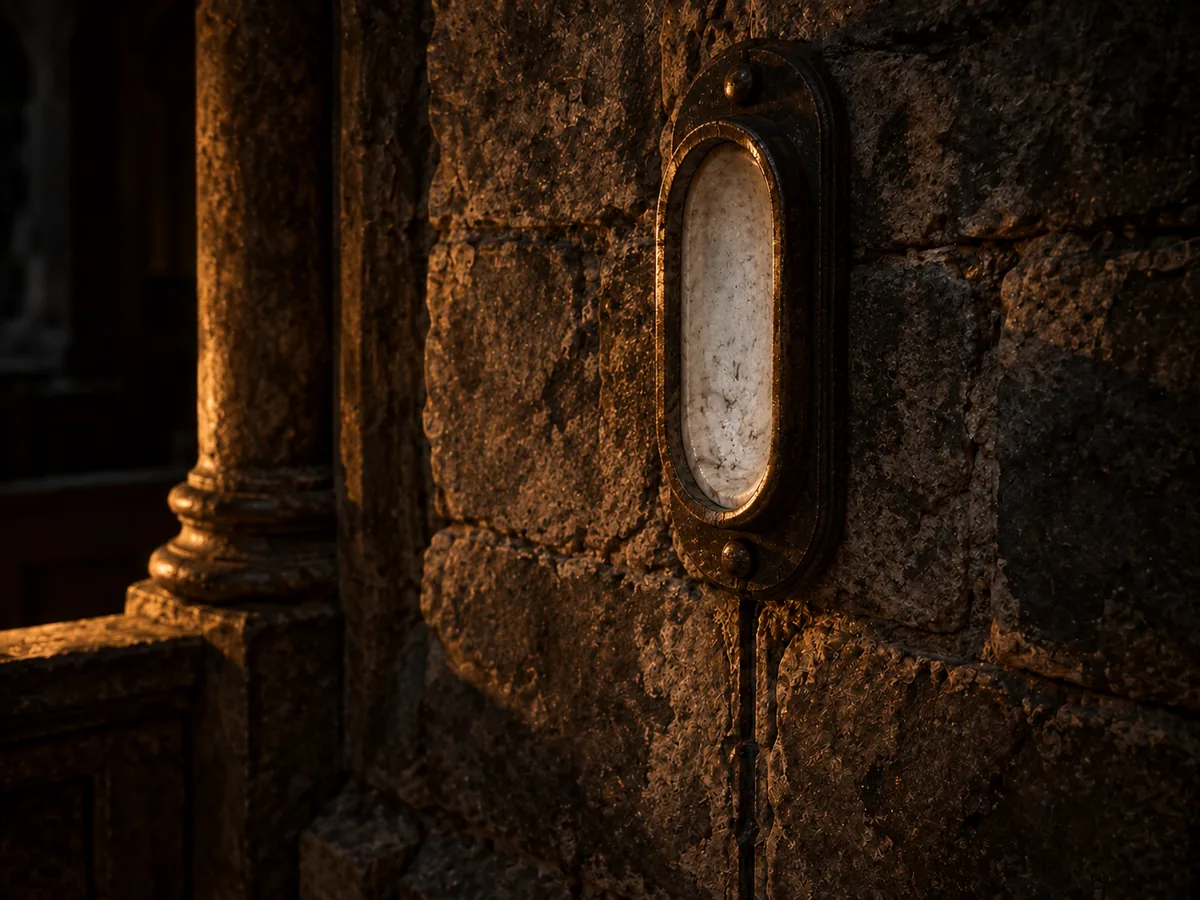
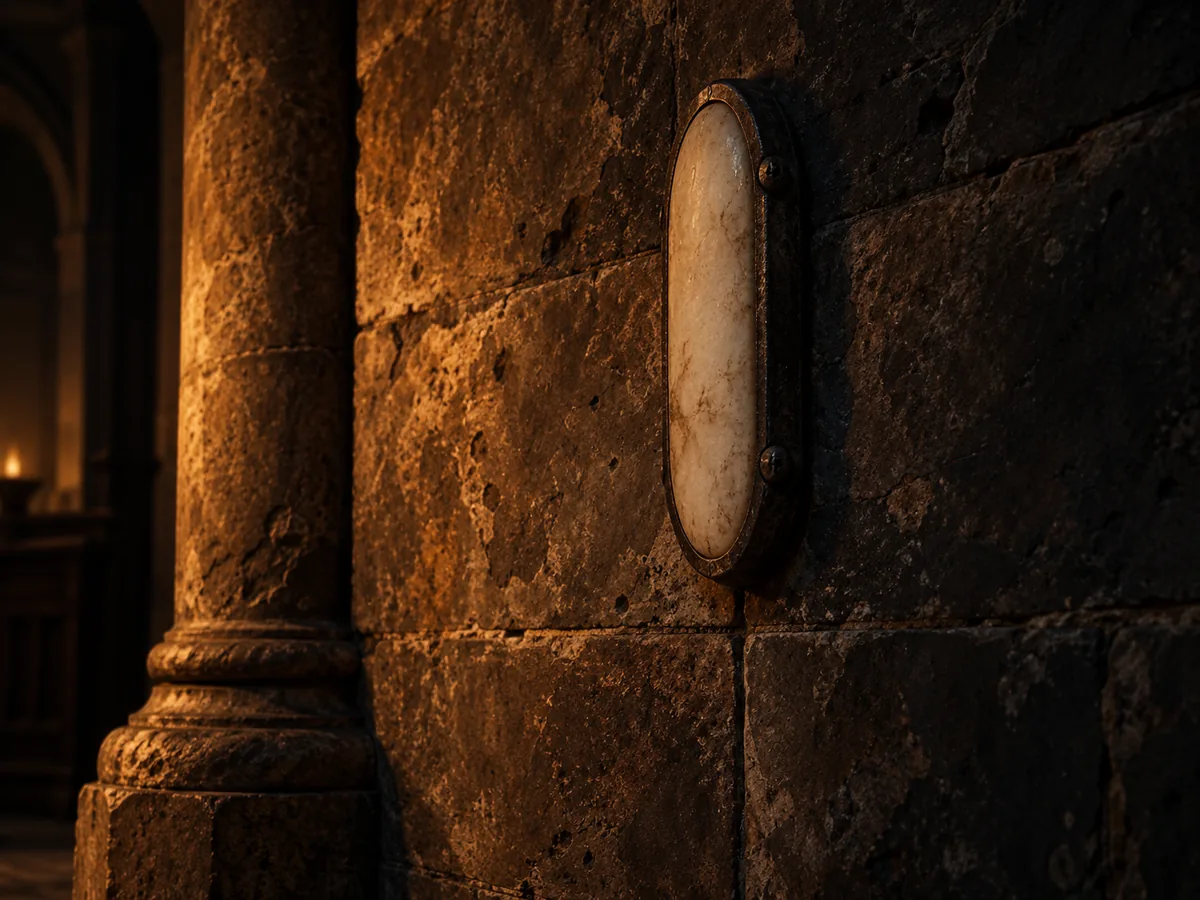
art: vary weathering and preserve amber palette

diff --git a/docs/ART.md b/docs/ART.md
@@ -6,14 +6,14 @@ Generated on October 2, 2026 with the built-in image_gen tool, following the use
 
 | Asset in public/art | Chronicle record | Accomplishment | Bytes |
 |---|---|---|---|
-| keeper-office.webp | appointment | Fresh save | 126104 |
-| oil-press.webp | oil-press-built | First construction | 153708 |
-| lamp-examination.webp | lamp-examination | Completed examination | 131182 |
-| cistern-find.webp | cistern-find | First expedition return | 202840 |
+| keeper-office.webp | appointment | Fresh save | 122960 |
+| oil-press.webp | oil-press-built | First construction | 180544 |
+| lamp-examination.webp | lamp-examination | Completed examination | 121138 |
+| cistern-find.webp | cistern-find | First expedition return | 199386 |
 
-All four files are 1200×900 WebP images, downscaled without cropping and encoded at quality 82 with Sharp (already present through Next.js). Combined size is 613834 bytes. Original PNGs remain in the image tool's generated-images directory; only final optimized assets are served. The existing service-worker builder precaches them.
+All four files are 1200×900 WebP images, downscaled without cropping and encoded at quality 82 with Sharp (already present through Next.js). Combined size is 624028 bytes. Original PNGs remain in the image tool's generated-images directory; only final optimized assets are served. The existing service-worker builder precaches them.
 
-The office image was inspected first and used as a style reference for each subsequent scene. The lamp's first bowl-shaped housing was rejected because it could imply an oil reservoir. The final edit replaces it with a shallow upright fixture and preserves the chapel, seam and lighting. The discarded lamp is not shipped.
+The initial office image was inspected first and used as a style reference for each subsequent scene. This batch has since been replaced to correct repetitive material texture, as described below. The lamp's first bowl-shaped housing was rejected because it could imply an oil reservoir. The accepted initial edit replaced it with a shallow upright fixture and preserved the chapel, seam and lighting. The current replacement retains that upright form and narrative limits. The discarded lamp is not shipped.
 
 ## Narrative review
 
@@ -23,7 +23,23 @@ The opening leaves the Keeper's appearance undefined. The Oil Press depicts ordi
 
 Use a stable ID in src/content/illustrations.ts with a Chronicle binding, local asset, accurate dimensions and alt text. A record's first accomplishment makes its art eligible. Building artwork also needs a one-time construction record and matching save validation/migration. Reuse the Chronicle caption rather than maintaining another copy. Keep each served asset below 300000 bytes; the asset test enforces existence, format, distinct bindings and size. Review all imagery and captions against AGENTS.md and docs/NARRATIVE_BIBLE.md before shipping.
 
-## Exact generation prompts
+## Surface rendering: irregular wear, original colors
+
+The original PNGs already contain unusually regular pitting and pores. WebP encoding and the interface did not create this pattern. Repeated emphasis on tactile, weathered surfaces and painterly texture appears to have encouraged it, and the office reference carried it into the later scenes.
+
+On October 2, 2026, the user clarified that the original coloring should remain: the desired correction is less regular texture, not a smoother art style. Preserve the original amber light, dirty browns, charcoal shadows, exposure, contrast, saturation and white balance. Keep materials rugged, old and tactile. Stone wear should vary in size, depth, density and spacing: irregular clusters, less pitted stretches, localized erosion and occasional shallow scars. Timber grain should follow the wood, with wear concentrated around use and edges. Different materials and individual stone blocks should not share an identical stamped texture.
+
+Avoid uniform stippling, repeated dimples or wormlike curls, procedural bump patterns, all-over granular relief, canvas texture, impasto and oversharpening. Do not replace these with global blur, polished stone, plastic surfaces or a new color grade. Keep meaningful edges, joints, tools and silhouettes clear.
+
+A trial that broadly smoothed the office and lamp was superseded by this clarification; those trial images are not the approved style reference. Inspect candidates at full resolution and approximately 350 pixels wide in the actual game. Check both natural variation in texture and fidelity to the original colors before accepting them. Correct the source artwork rather than adding compression or CSS filters.
+
+Reusable prompt clause:
+
+> Preserve the original color grade, exposure, contrast, saturation, white balance and localized lighting. Rugged historical materials with nonuniform natural wear: pits and pores vary in size, depth and spacing, clustered erosion alternates with less pitted areas. Keep material-specific grain and clear object edges. No repeated stippling, embossed curls, uniform procedural bump pattern, canvas texture or oversharpening. No global smoothing, blur, polished or plastic surfaces, recoloring or relighting.
+
+## Original generation prompts
+
+These document the first batch. For new work, add the texture-variation clause above and use the accepted current assets as references. Do not propagate the original repetitive surface pattern.
 
 For the Oil Press and cistern, the reference was the accepted office PNG. The initial lamp also used that office reference. The lamp correction used the discarded lamp as image 1 (edit target) and the office as image 2 (style reference).
 
@@ -47,3 +63,22 @@ Use case: precise-object-edit. Image 1 is the lamp illustration EDIT TARGET. Ima
 
 Use case: illustration-story. Create a NEW standalone landscape 4:3 illustration for Buried Sun: first Old Cistern expedition discovery. The supplied office image is a STYLE AND MATERIAL reference only, not an edit target. Match its grounded historical realism, subtle painterly texture, heavy chiaroscuro and desaturated charcoal/dirty brown/bone palette. A human-eye-level intimate view beside a newly exposed worn stone stair within a cramped old cistern, with silt on its lower steps. In the foreground, a few small PALE IRREGULAR fragments of older material are laid on plain worn cloth by returning scavengers; show a simple hand or tool for scale, no heroic portrait. The fragments are unidentified material, not skulls, bones, fossils, crystals, jewels, circuit boards, engines or glowing objects. No markings or detailed technical cross-section that explains them. A rope is fixed to a plain uncorroded ring in the masonry beside the upper stair. A fine groove is partly visible in the stair wall. The stair continues down beyond illumination and out of frame, with its destination concealed; no comprehensive chamber or geographic map. One small ordinary oil lamp provides localized amber light across cloth, pale fragments, damp stone and silt while the room boundaries disappear in genuine deep shadow. Cropped architectural fragments, inhabited ancient environment, material and functional human tools. Preserve uncertainty: no machine identity, purpose, spacecraft features, magical symbols, monumental panorama or bright fantasy spectacle. No screens, modern electrical equipment, neon, text, border, title, logo or watermark.
 
+## Current replacement prompts
+
+Generated with the built-in image_gen tool after the texture clarification. Direct edits repeatedly retained the embossed pattern, so the accepted replacements were freshly rendered from the established scenes and palette. Framing and incidental object details vary slightly from the first batch; the accomplishments, captions, subjects and reveal limits remain the same. No smoothed trial is used as a style anchor. Use the current Keeper's office for future lighting and palette, with the nonuniform-wear guidance above.
+
+### Keeper's office
+
+Use case: illustration-story. A new 4:3 landscape Dark Chronicle illustration for Buried Sun. A cramped shabby keeper's office, viewed from behind an EMPTY worn wooden chair in the foreground facing a battered desk. Open old household register centered on desk, ordinary iron keys to its right, ink vessel left, ordinary oil lamp behind keys on the right. Practical shelves of records on left and right, modest stone walls. Narrow dark doorway in the rear right gives an obstructed glimpse of steps, barrel and cloth awning in the Outer Ward, no skyline. Small dark structural inset in left wall remains unexplained. Keeper's appearance undefined, no people. The scene feels modest, functional and inherited. Coloring must retain the established rich warm amber-orange oil-lamp light, dirty brown timber and stone, soot charcoal shadows, pale bone objects and dull iron. Heavy chiaroscuro, localized light, deep darkness concealing room boundaries, no overall brightening or desaturation. Grounded historical realism, aged tactile ordinary materials, intimate human-scale viewpoint. IMPORTANT MATERIAL TREATMENT: broad worn stone faces with low natural relief; irregular isolated patches of erosion and differently sized shallow pores, quieter stretches between clusters, sparse chipped edges and localized soot stains. Different stones have different textures. Timber grain follows its fibers, wear gathers around use and edges. Avoid the artificially repeated embossed squiggles or same-size pits of generated textures. No uniform stippling, worm trails, porous foam, canvas pattern, impasto, procedural bump noise, oversharpening or HDR crunch. Material wear should be irregular, convincing and localized, neither pristine nor polished. Clear object silhouettes, tools, joints and meaningful edges. No recognizable science-fiction equipment, electrical components, magic, castle, noble or heroic spectacle, explanation of ancient structures, new lore, map, panorama, readable text, border, logo or watermark.
+
+### Oil Press
+
+Use case: illustration-story. A new 4:3 landscape Dark Chronicle illustration for Buried Sun. A cramped stone workshop with a sturdy hand-operated timber screw press dominating center and right. Plain iron fittings, screw, compression boards, and oil collecting from tray into earthenware vessel at its base. One ordinary worker in practical worn wool/linen on the left leans toward the lever, tending the press with believable hands and working posture, no heroic pose. Ordinary oil lamp at lower right, vessels and tools in shadow at left. Real timber has long directional fibers, edge wear and occasional splits, never uniform stone-like pores. Real cloth is soft, skin natural, pottery mostly matte with limited oil highlights. Coloring must retain the established rich warm amber-orange oil-lamp light, dirty brown timber and stone, soot charcoal shadows, pale bone objects and dull iron. Heavy chiaroscuro, localized light, deep darkness concealing room boundaries, no overall brightening or desaturation. Grounded historical realism, aged tactile ordinary materials, intimate human-scale viewpoint. IMPORTANT MATERIAL TREATMENT: broad worn stone faces with low natural relief; irregular isolated patches of erosion and differently sized shallow pores, quieter stretches between clusters, sparse chipped edges and localized soot stains. Different stones have different textures. Timber grain follows its fibers, wear gathers around use and edges. Avoid the artificially repeated embossed squiggles or same-size pits of generated textures. No uniform stippling, worm trails, porous foam, canvas pattern, impasto, procedural bump noise, oversharpening or HDR crunch. Material wear should be irregular, convincing and localized, neither pristine nor polished. Clear object silhouettes, tools, joints and meaningful edges. No recognizable science-fiction equipment, electrical components, magic, castle, noble or heroic spectacle, explanation of ancient structures, new lore, map, panorama, readable text, border, logo or watermark.
+
+### Lamp examination
+
+Use case: illustration-story. Buried Sun, Dark Chronicle: a close observational view of a shallow UPRIGHT wall-mounted civic lamp fixture in an ancient dark stone chapel, landscape 4:3. Human-eye-level oblique composition. The fixture is a narrow vertical oval of cold pale ivory solid lining, plain dark worn metal rim, two mounting bolts, set close against the wall. Thin seam descends from its base into the masonry, not a wire. Partial column on left, room beyond nearly invisible. The fixture has no bowl, reservoir, wick, flame, bulb or recognizable electrical parts and does not glow. Rich restrained amber-orange indirect oil light grazes dirty brown masonry from off-frame left; charcoal darkness on right, strong heavy chiaroscuro. Original game palette: warm brown and amber, soot black, bone, dull iron; no color shift toward gray-green or washed-out brown. Grounded historical realism with convincing aged natural materials. Wall blocks have broad hand-cut faces, modest irregular mineral texture, random shallow weathering in isolated patches and rounded chips at selected edges. Large less-pitted stretches between uneven clusters of a few pores of different sizes and depths. Stone is solid dense material, NOT porous foam. Strong variation between individual stones, no embossed squiggles, worm trails, repetitive dimples, stamped stucco, canvas pattern, painterly impasto, all-over noise, procedural bump effect or extreme microtexture. Keep roughness around worn edges and selected patches; clear masonry joints and important object edges. Quiet material realism with localized stains and soot, neither pristine nor polished. Intimate enclosed scene, darkness conceals the greater architecture, no technological explanation. No sci-fi, neon, magic, symbols, diagram, landscape, text or border.
+
+### Old Cistern discovery
+
+Use case: illustration-story. A new 4:3 landscape Dark Chronicle illustration for Buried Sun. An intimate view beside a partly exposed stone stair descending at right and out of frame into dark depths, cramped old cistern. Foreground cloth spread on stone at lower left holds three small pale irregular unidentified material fragments, one held by a simple hand for scale. Tools and pack on left; ordinary oil lamp illuminates from left-middle. Rope attached to plain uncorroded ring in masonry beside stair at upper middle, fine groove partly visible in wall. Silt on lower steps. Preserve uncertainty: fragments not bones, fossils, crystals, circuitry, engines, or glowing objects. Destination concealed. Damp stone has localized wet patches and restrained broad highlights, no uniformly sparkling glitter. Coloring must retain the established rich warm amber-orange oil-lamp light, dirty brown timber and stone, soot charcoal shadows, pale bone objects and dull iron. Heavy chiaroscuro, localized light, deep darkness concealing room boundaries, no overall brightening or desaturation. Grounded historical realism, aged tactile ordinary materials, intimate human-scale viewpoint. IMPORTANT MATERIAL TREATMENT: broad worn stone faces with low natural relief; irregular isolated patches of erosion and differently sized shallow pores, quieter stretches between clusters, sparse chipped edges and localized soot stains. Different stones have different textures. Timber grain follows its fibers, wear gathers around use and edges. Avoid the artificially repeated embossed squiggles or same-size pits of generated textures. No uniform stippling, worm trails, porous foam, canvas pattern, impasto, procedural bump noise, oversharpening or HDR crunch. Material wear should be irregular, convincing and localized, neither pristine nor polished. Clear object silhouettes, tools, joints and meaningful edges. No recognizable science-fiction equipment, electrical components, magic, castle, noble or heroic spectacle, explanation of ancient structures, new lore, map, panorama, readable text, border, logo or watermark.

diff --git a/AGENTS.md b/AGENTS.md
@@ -738,11 +738,24 @@ Use these general approaches:
 
 ### Image-generation guidance
 
+Read `docs/ART.md` for the accepted assets, current style reference and reusable
+surface-rendering guidance before generating or editing illustrations.
+
 When prompting an image model, explicitly reinforce the following concepts where relevant:
 
 > dark historical realism, heavy chiaroscuro, localized oil-lamp or fire illumination, deep surrounding darkness, weathered tactile materials, cramped or enclosed composition, restrained desaturated palette, ancient inhabited environment, human-scale viewpoint, subtle unexplained architectural anomalies, monumental structures disappearing beyond the frame, grounded clothing and tools, no overt fantasy spectacle, no recognizable science-fiction technology, no panoramic establishing view
 
 Do not rely on the phrase "dark fantasy" alone. Image models frequently interpret it as conventional fantasy art and introduce castles, armor, magical symbols, dramatic skylines, or other inappropriate imagery. Describe the physical scene and lighting explicitly.
+
+Keep material wear irregular and specific to each material. Preserve the
+accepted original color grade and lighting. Stone pits and pores should vary
+in size, depth, density and spacing, with clustered erosion alternating with
+less pitted areas. Timber grain follows the wood; wear gathers around edges
+and use. Avoid repeated stippling, embossed curls, uniform procedural bump
+patterns, canvas texture, impasto and oversharpening. Do not substitute global
+smoothing, blur, polished or plastic surfaces, recoloring or relighting. Use
+the accepted current artwork as a reference; superseded smoothing trials are
+not style anchors.
 
 ### Final test
 
@@ -756,5 +769,6 @@ Before accepting an illustration, ask:
 6. Does anything look generically high-fantasy or conventionally science-fictional?
 7. If something strange appears, is it subtle enough that an inhabitant might accept it as part of the world?
 8. Does the image reveal something while leaving a larger question unanswered?
+9. At full resolution and phone size, do pits, pores and wear vary naturally rather than repeat a uniform pattern, while preserving the accepted colors and lighting?
 
 If an image fails these tests, revise it before adding it to the game.
